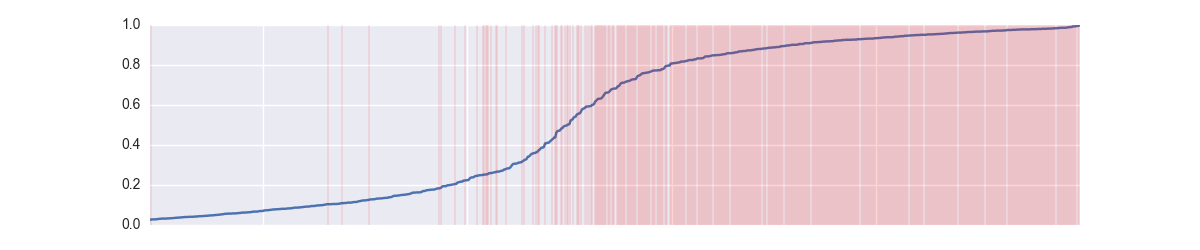
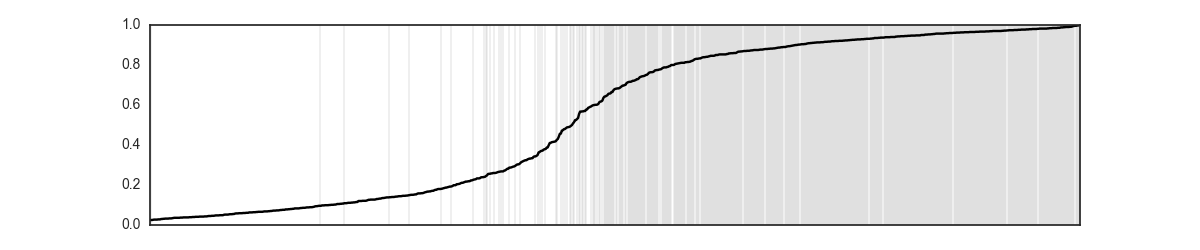
Change color scheme, clean up code.
Change to black and white scheme for use in papers. Replace deprecated
sort method. Require user to provide filename. Integrate new demo plot
into the readme.

diff --git a/separation_plot.py b/separation_plot.py
@@ -10,24 +10,24 @@ import seaborn as sns
 from sklearn.cross_validation import train_test_split 
 from sklearn.datasets import make_classification
 from sklearn.ensemble import RandomForestClassifier
+sns.set_style('white')
 
 
-def separation_plot(y_true, y_pred, alpha=0.80, fname):
+def separation_plot(y_true, y_pred, fname, alpha=0.6):
     '''
-    Display observed events against predicted probabilities. 
+    Display observed events against predicted probabilities for binary classification problems
 
     Arguments
     ---------
         y_true : vector of observed class labels
         y_pred : vector of predicted probabilities
-        alpha: float from 0 to 1, transparency
-        fname: file path to directory to save plot, else show 
+        fname: file path to directory to save plot 
+        alpha: float from 0 to 1, transparency of indicators of observed events
     '''
     pdata = pd.DataFrame([y_true, y_pred]).T
     pdata.columns = ['y', 'yhat']
-    pdata = pdata.sort('yhat')
+    pdata = pdata.sort_values('yhat')
     pdata = pdata.reset_index(drop=True)
-
     events = pdata[pdata['y'] == 1]
     evals = events.index.values
 
@@ -36,16 +36,16 @@ def separation_plot(y_true, y_pred, alpha=0.80, fname):
     ax = plt.gca()
     ax.set_xlim([(evals[0] - 1), (evals[-1] + 1)])
     ax.set_ylim([0, 1])
-    ax.plot(pdata['yhat'], '-')
+    ax.plot(pdata['yhat'], linestyle='-', color='k')
     for i in evals:
-        ax.axvline(x=i, linewidth=0.15, linestyle='-', color='r', alpha=alpha)
+        ax.axvline(x=i, linewidth=0.15, linestyle='-', color='k', alpha=alpha)
     plt.savefig(fname)
     plt.close() 
 
 
 if __name__ == '__main__':
 
-    # generate some fake data for classification problem 
+    # generate some fake data for classification problem, train-test split 
     X, y = make_classification(n_samples=10000, n_informative=5, random_state=4) 
     X_train, X_test, y_train, y_test = train_test_split(X, y, test_size=0.1, random_state=4) 
     
@@ -53,5 +53,5 @@ if __name__ == '__main__':
     forest = RandomForestClassifier(n_estimators=1000, n_jobs=-1)
     forest.fit(X_train, y_train)
     
-    # make separation plot 
+    # demo separation plot 
     separation_plot(y_test, forest.predict_proba(X_test)[:, 1], fname='images/separation_plot.png')
